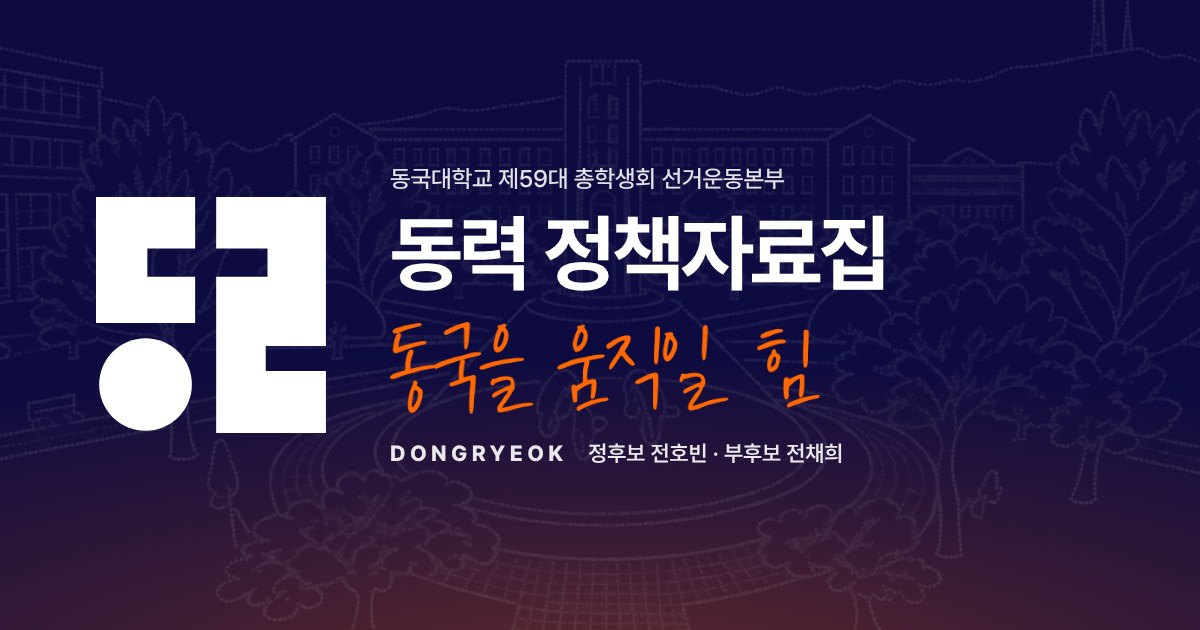
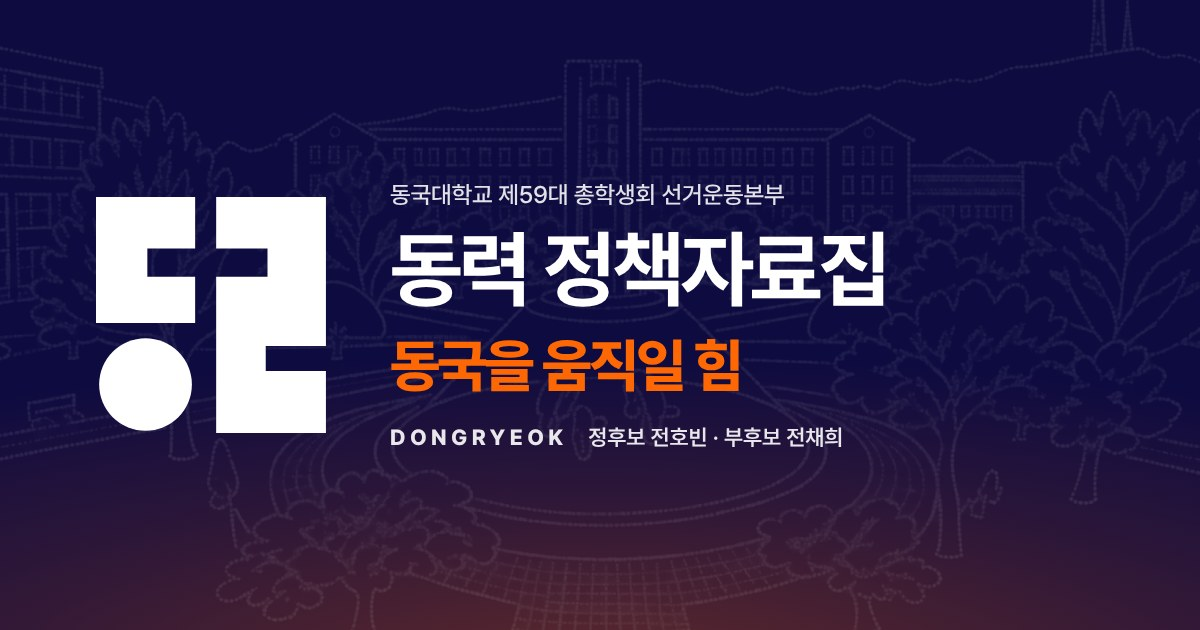
Use Pretendard text instead of handwriting images; new two-candidate photo
- Cover/vote slogan, candidate heading and 먼저·함께·끝까지 now Pretendard with distinct sizes
- Candidates: one photo (left 부후보 전채희, right 정후보 전호빈) with names under each; share image text updated

Claude-Session: https://claude.ai/code/session_016NDupzezK2invQqExxvnd5

Changed region(s): [[0.3083, 0.2714, 0.74, 0.754]]

diff --git a/src/App.tsx b/src/App.tsx
@@ -1,7 +1,7 @@
 import { useCallback, useEffect, useRef, useState, type MouseEvent, type ReactNode } from 'react'
 import { motion } from 'framer-motion'
 import { ArrowDown, ChevronDown, ChevronLeft, ChevronRight, Menu, RotateCcw, X } from 'lucide-react'
-import { aliases, campaign, candidates, categories, roadmap, sources, type Block, type Category, type Pledge, type Step } from './data/site'
+import { aliases, campaign, candidates, categories, roadmap, sources, type Block, type Candidate, type Category, type Pledge, type Step } from './data/site'
 
 const { vote } = campaign
 const listed = (c: Category) => c.pledges.filter((p) => !p.hidden)
@@ -156,9 +156,7 @@ function Hero() {
           <h1 id="cover-title" className="t-cover-title mt-6">
             {campaign.bookTitle}
           </h1>
-          <p className="mt-7">
-            <img src="figma/slogan-final.png" alt={campaign.slogan} width={994} height={212} className="h-auto w-[min(76vw,380px)]" />
-          </p>
+          <p className="t-slogan mt-6 text-orange">{campaign.slogan}</p>
           <p className="t-lead mt-3 max-w-[26ch] text-white/85 md:max-w-none">{campaign.sloganSub}</p>
           <div className="mt-8 flex w-full max-w-[420px] flex-col gap-3 sm:w-auto sm:max-w-none sm:flex-row">
             <a href="#pledges" className="cta inline-flex items-center justify-center gap-2 rounded-full bg-orange px-7 py-3.5 text-[17px] font-bold text-navy">
@@ -175,69 +173,73 @@ function Hero() {
   )
 }
 
-/* 2~3면 후보 소개: 두 면에 걸친 손글씨 '동국을 움직일 힘, 동력을 만들다' → 정장 사진 → 이름·전공 → 연도별 약력 */
+/* 2~3면 후보 소개: '동국을 움직일 힘, 동력을 만들다' → 두 후보 사진(왼쪽 부후보 전채희, 오른쪽 정후보 전호빈) → 이름·전공 → 연도별 약력 */
+function Bio({ c, className = '' }: { c: Candidate; className?: string }) {
+  return (
+    <section aria-labelledby={`bio-${c.name}`} className={className}>
+      <h3 id={`bio-${c.name}`} className="t-pledge border-b border-ink pb-2">
+        {c.role} {c.name} 약력
+      </h3>
+      <p className="t-meta mt-3 text-muted">{c.origin}</p>
+      <dl className="mt-4 space-y-5">
+        {c.history.map((h) => (
+          <div key={h.year} className="grid grid-cols-[3.25rem_1fr] gap-x-3">
+            <dt className="t-meta pt-0.5 font-bold text-ink tabular-nums">{h.year}</dt>
+            <dd>
+              <ul className="space-y-1.5">
+                {h.items.map((it) => (
+                  <li key={it} className="t-small text-body">
+                    {it}
+                  </li>
+                ))}
+              </ul>
+            </dd>
+          </div>
+        ))}
+      </dl>
+    </section>
+  )
+}
+
 function Candidates() {
+  const [lead, vice] = candidates
   return (
     <section id="candidates" aria-labelledby="candidates-title" className="gutter scroll-mt-14 bg-white py-14 text-ink sm:py-20">
       <div className="wrap">
         <p className="t-kicker text-orange-ink">후보 소개</p>
-        <h2 id="candidates-title" className="mt-3">
-          <span className="sr-only">동국을 움직일 힘, 동력을 만들다</span>
-          <span aria-hidden className="grid gap-x-12 gap-y-2 md:grid-cols-2">
-            <img src="figma/hand-candidates-1.png" alt="" width={515} height={106} className="h-auto w-[min(86vw,420px)]" />
-            <img src="figma/hand-candidates-2.png" alt="" width={531} height={147} className="h-auto w-[min(88vw,432px)]" />
+        <h2 id="candidates-title" className="mt-3 text-orange">
+          <span className="t-hand-1 block">동국을 움직일 힘,</span>
+          <span className="t-hand-2 block">
+            <span className="t-hand-strong">동력</span>을 만들다
           </span>
         </h2>
-        <div className="mt-9 grid grid-cols-2 gap-3 sm:gap-8 md:gap-12">
-          {candidates.map((c) => (
-            <figure key={c.name}>
-              <div className="overflow-hidden rounded-2xl bg-paper md:max-w-[340px]">
-                <img src={c.photo} alt={`${c.role} ${c.name} 정장 사진`} width={720} height={1000} loading="lazy" className="h-auto w-full" />
-              </div>
-              <figcaption className="mt-4">
+        <figure className="mx-auto mt-8 max-w-[720px]">
+          <div className="overflow-hidden rounded-2xl bg-paper">
+            <img src="photos/duo-candidates.webp" alt={`${vice.role} ${vice.name}(왼쪽)과 ${lead.role} ${lead.name}(오른쪽)`} width={1400} height={1392} loading="lazy" className="h-auto w-full" />
+          </div>
+          <figcaption className="mt-4 grid grid-cols-2 gap-3 text-center">
+            {[vice, lead].map((c) => (
+              <div key={c.name}>
                 <p className="t-kicker text-orange-ink">{c.role}</p>
                 <p className="t-name mt-0.5">{c.name}</p>
                 <p className="t-pledge mt-1">
                   {c.dept} {c.year}
                 </p>
                 <p className="t-meta mt-0.5 text-muted">{c.minor}</p>
-              </figcaption>
-            </figure>
-          ))}
-        </div>
+              </div>
+            ))}
+          </figcaption>
+        </figure>
         <div className="mt-12 grid gap-10 md:grid-cols-2 md:gap-12">
-          {candidates.map((c) => (
-            <section key={c.name} aria-labelledby={`bio-${c.name}`}>
-              <h3 id={`bio-${c.name}`} className="t-pledge border-b border-ink pb-2">
-                {c.role} {c.name} 약력
-              </h3>
-              <p className="t-meta mt-3 text-muted">{c.origin}</p>
-              <dl className="mt-4 space-y-5">
-                {c.history.map((h) => (
-                  <div key={h.year} className="grid grid-cols-[3.25rem_1fr] gap-x-3">
-                    <dt className="t-meta pt-0.5 font-bold text-ink tabular-nums">{h.year}</dt>
-                    <dd>
-                      <ul className="space-y-1.5">
-                        {h.items.map((it) => (
-                          <li key={it} className="t-small text-body">
-                            {it}
-                          </li>
-                        ))}
-                      </ul>
-                    </dd>
-                  </div>
-                ))}
-              </dl>
-            </section>
-          ))}
+          <Bio c={lead} className="md:order-2" />
+          <Bio c={vice} className="md:order-1" />
         </div>
       </div>
     </section>
   )
 }
 
-/* 4면 슬로건: 먼저 움직이겠습니다 / 함께 만들겠습니다 / 끝까지 책임지겠습니다 (손글씨는 자료집 원본 벡터) */
-const handOf: Record<string, [string, number, number]> = { 먼저: ['hand-first', 64, 30], 함께: ['hand-together', 71, 37], 끝까지: ['hand-end', 95, 39] }
+/* 4면 슬로건: 먼저 움직이겠습니다 / 함께 만들겠습니다 / 끝까지 책임지겠습니다 */
 function Slogan() {
   return (
     <section id="slogan" aria-labelledby="slogan-title" className="gutter scroll-mt-14 border-t border-line bg-white py-14 text-ink sm:py-20">
@@ -251,18 +253,13 @@ function Slogan() {
           <p className="t-body mt-4 max-w-[62ch] text-body">{campaign.nameNote}</p>
         </Reveal>
         <ul className="mt-10 grid gap-8 md:grid-cols-3 md:gap-10">
-          {campaign.values.map((v) => {
-            const [file, w, h] = handOf[v.key]
-            return (
-              <li key={v.key} className="border-t-2 border-ink pt-4">
-                <p>
-                  <img src={`figma/${file}.svg`} alt={v.key} width={w} height={h} className="h-10 w-auto" />
-                </p>
-                <p className="t-pledge-main mt-2">{v.title}</p>
-                <p className="t-body mt-2 text-body">{v.body}</p>
-              </li>
-            )
-          })}
+          {campaign.values.map((v) => (
+            <li key={v.key} className="border-t-2 border-ink pt-4">
+              <p className="t-value text-orange">{v.key}</p>
+              <p className="t-pledge-main mt-2">{v.title}</p>
+              <p className="t-body mt-2 text-body">{v.body}</p>
+            </li>
+          ))}
         </ul>
       </div>
     </section>
@@ -824,9 +821,8 @@ function Vote() {
       <div className="wrap relative z-10">
         <h2 id="vote-title" className="t-h2">
           여러분의 소중한 한 표가
-          <span className="mt-2 flex flex-wrap items-end gap-x-3">
-            <img src="figma/slogan-final.png" alt={campaign.slogan} width={994} height={212} className="h-auto w-[min(70vw,340px)]" />
-            <span>이 됩니다.</span>
+          <span className="mt-1 block">
+            <span className="t-slogan-lg text-orange">{campaign.slogan}</span>이 됩니다.
           </span>
         </h2>
         <div className="mt-9">

diff --git a/src/index.css b/src/index.css
@@ -144,6 +144,13 @@ details[open] .chev { transform: rotate(180deg); }
   .t-small { font-size: 14.5px; line-height: 1.55; }
   .t-meta { font-size: 13.5px; line-height: 1.5; }
   .t-kicker { font-size: 14px; font-weight: 700; letter-spacing: -0.01em; }
+  /* 손글씨 자리도 Pretendard로 — 자리마다 크기를 달리 */
+  .t-slogan { font-size: clamp(1.9rem, 8.4vw, 2.9rem); font-weight: 800; line-height: 1.2; letter-spacing: -0.05em; }
+  .t-slogan-lg { font-size: 1.32em; font-weight: 900; letter-spacing: -0.05em; margin-right: 0.12em; }
+  .t-hand-1 { font-size: clamp(1.7rem, 7.2vw, 2.6rem); font-weight: 700; line-height: 1.25; letter-spacing: -0.045em; }
+  .t-hand-2 { font-size: clamp(2.3rem, 10.5vw, 4rem); font-weight: 800; line-height: 1.12; letter-spacing: -0.05em; }
+  .t-hand-strong { font-weight: 900; color: var(--orange); }
+  .t-value { font-size: clamp(2.1rem, 9vw, 2.75rem); font-weight: 900; line-height: 1; letter-spacing: -0.05em; }
   .t-wordmark { font-size: 16px; font-weight: 800; letter-spacing: 0.14em; }
   .t-cover-title { font-size: clamp(2.3rem, 10vw, 3.75rem); font-weight: 700; line-height: 1.15; letter-spacing: -0.045em; }
   .t-num { font-size: clamp(76px, 21vw, 124px); font-weight: 200; line-height: 0.9; letter-spacing: -0.05em; }
